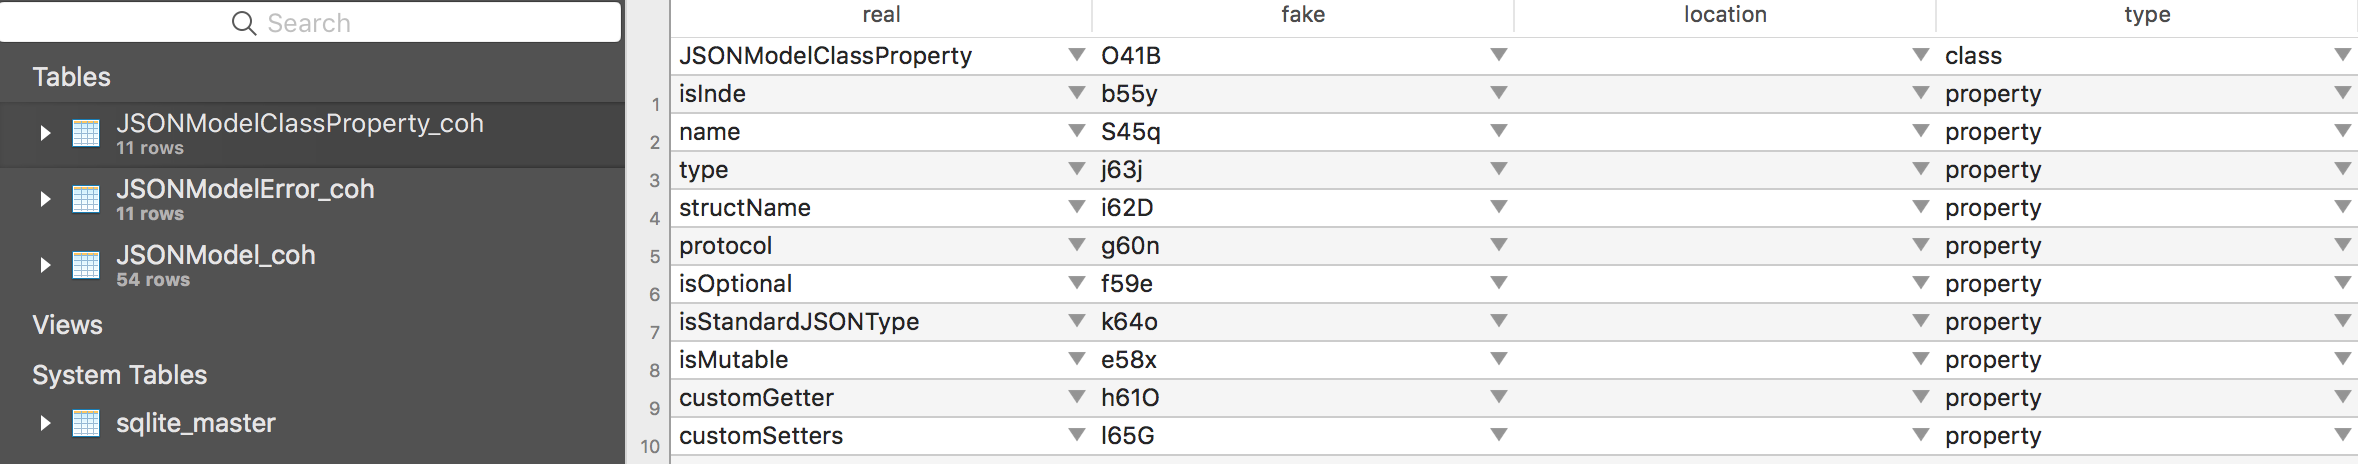
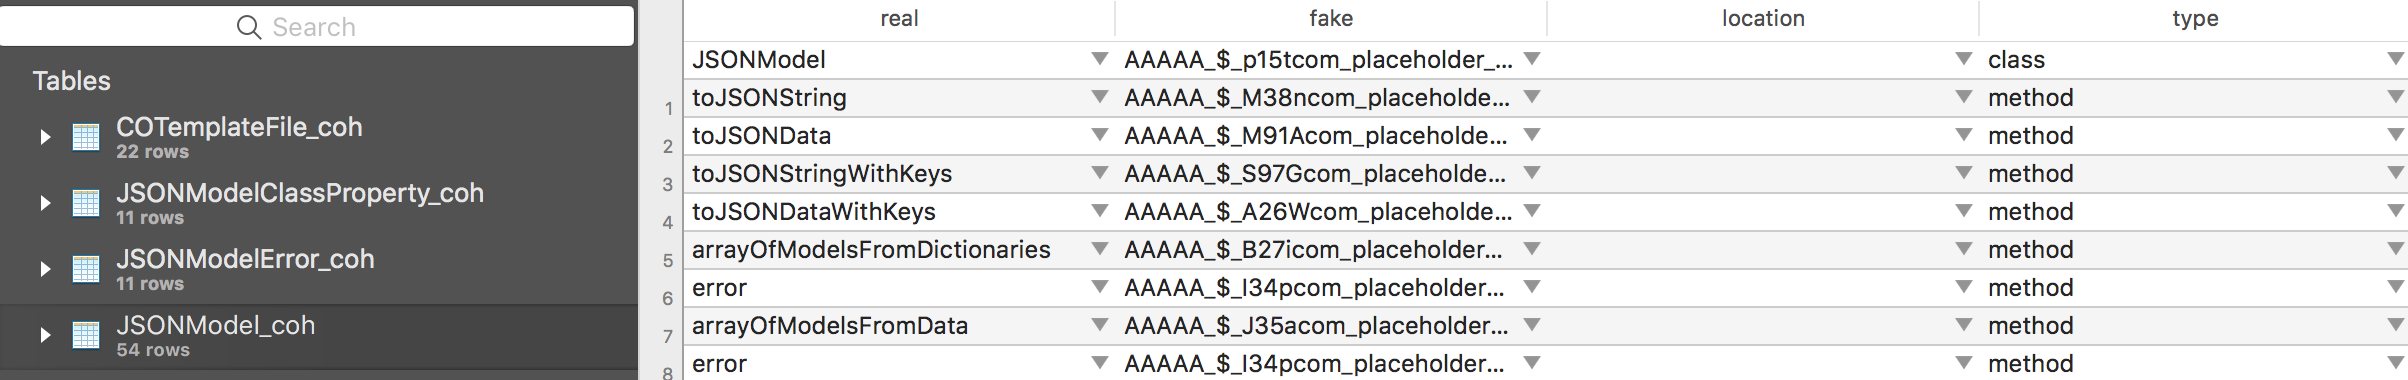
Update

diff --git a/obfuse-code/obfuse-code/Arguments.swift b/obfuse-code/obfuse-code/Arguments.swift
@@ -18,7 +18,6 @@ fileprivate struct __Arguments {
     let st = flag.Bool(name: "st", defValue: true, usage: "Strengthen the obfuscation. Default is true.")
     let version = flag.Bool(name: "version", defValue: false, usage: "Get the program supported iOS SDK version.")
     let query = flag.String(name: "q", defValue: "", usage: "Query the method whether exist or not.")
-    let showClass = flag.Bool(name: "class", defValue: false, usage: "Show the class name which method belogs to if you are in query command.")
 }
 
 public struct Arguments {
@@ -34,27 +33,32 @@ public struct Arguments {
 
     public var executedPath: String { return flag.executedPath }
 
-    public var identifier: String {
-        if let infoBundle = Bundle.init(path: infoPlistFilepath as String), let path = infoBundle.path(forResource: "info", ofType: "plist"), let dict = NSDictionary.init(contentsOfFile: path) {
-            if let id = dict[kCFBundleIdentifierKey as Any] as? String {
-                return id
-            }
-        }
-        return "com.placeholder.co"
-    }
-    public var appVersion: String {
-        if let infoBundle = Bundle.init(path: infoPlistFilepath as String), let path = infoBundle.path(forResource: "info", ofType: "plist"), let dict = NSDictionary.init(contentsOfFile: path) {
-            if let ver = dict[kCFBundleVersionKey as Any] as? String {
-                return ver
-            }
-        }
-        return "1.0.0"
-    }
+    public private(set) var identifier: String = ""
+
+    public private(set) var appVersion: String = ""
 
     public init() {
         if flag.parsed() == false {
             flag.parse()
         }
+        identifier = {
+            if let infoBundle = Bundle.init(path: __arguments.id.pointee as String), let path = infoBundle.path(forResource: "info", ofType: "plist"), let dict = NSDictionary.init(contentsOfFile: path) {
+                if let id = dict[kCFBundleIdentifierKey as Any] as? String {
+                    return id.replacingOccurrences(of: ".", with: "_").replacingOccurrences(of: "-", with: "_")
+                }
+            }
+            return "com_placeholder_co"
+        }()
+
+        appVersion = {
+            if let infoBundle = Bundle.init(path: __arguments.id.pointee as String), let path = infoBundle.path(forResource: "info", ofType: "plist"), let dict = NSDictionary.init(contentsOfFile: path) {
+                if let ver = dict[kCFBundleVersionKey as Any] as? String {
+                    return ver.replacingOccurrences(of: ".", with: "_").replacingOccurrences(of: "-", with: "_")
+                }
+            }
+            return "m_s_p"
+        }()
+
         if __arguments.version.pointee {
             Arguments.printVersion()
         }

diff --git a/obfuse-code/obfuse-code/ObfuscationManager.swift b/obfuse-code/obfuse-code/ObfuscationManager.swift
@@ -306,6 +306,6 @@ fileprivate extension ObfuscationManager {
             ObfuscationManager.index += 1
             fakeSource += 1
         }
-        return "\(fakeCharacters[26 + ObfuscationManager.index % 26])\(fakeSource)\(fakeCharacters[Int(arc4random() % 53)])"
+        return "AAAAA_$_\(fakeCharacters[ObfuscationManager.index % 53])\(fakeSource)\(fakeCharacters[Int(arc4random() % 53)])\(Arguments.arguments.identifier)\(Arguments.arguments.appVersion)"
     }
 }

diff --git a/README.md b/README.md
@@ -77,21 +77,60 @@ You could copy the program [CodeObfuscation-release](Products/iOS/CodeObfuscatio
   @end
   ```
 
+- Add macro **`CO_CONFUSION_PROTOCOL`** before a method head of declare or implementation. It tags the method is added to obfuscation task. e.g.
+
+  ```objective-c
+  @protocol CO_CONFUSION_PROTOCOL COProtocol <NSObject>
+
+  @property (nonatomic, strong) id CO_CONFUSION_PROPERTY aVar;
+
+  CO_CONFUSION_METHOD
+  - (BOOL)doSome:(NSString *)task withYou:(id)you another:(id)someWho;
+
+  @end
+  ```
+
+  Property and method are same to `CO_CONFUSION_PROPERTY` and ` CO_CONFUSION_METHOD`.
+
 # Features
 
-- Support command. 
+- Support commands. (You can alse obtain these from command: -h or -help)
 
-  | Subcommand or Options                | Description                              |
-  | ------------------------------------ | ---------------------------------------- |
-  | **-id \<path>**                      | The directory of info.plist. Default is current executed path. |
-  | **-offset \<unsigned integer>**      | The offset of obfuscation. Default is 0. |
-  | -release \| -debug                   | It controls the macro `!defined(DEBUG)`. If release, the macro will be used. Default is release, and I suggest that you'd better use release model. (<span style="background:red">deprecated</span>) |
-  | **-db \<path>**                      | The directory of obfuscation database. Default is current executed path. |
-  | **-root \<path>**                    | The directory of project file or what you want to start. Default is current executed path. |
-  | **-super [--strict=\<true\|false>]** | Check the user-class' names which have been entranced obfuscation whethere their super classes exist or not. If exists, will info a warning. For **strict** option, will check all of classes of iOS Kits. |
-  | **-st=\<true\|false>**               | Strengthen the obfuscation. Default is true. |
-  | **-help**                            | Get the command (maybe, escaping…)) helpful info. |
-  | **-version**                         | Get the program supported iOS SDK version. |
+  **-id** string
+
+      	The directory of info.plist. Default is current executed path. (default ".")
+
+  **-offset** int
+
+      	The offset of obfuscation. Default is 0.
+
+  **-db** string
+
+      	The directory of obfuscation database. Default is current executed path. (default ".")
+
+  **-root** string
+
+      	The directory of project file or what you want to start. Default is current executed path. (default ".")
+
+  **-super**
+
+      	Check the user-class' names which have been entranced obfuscation whether their super classes exist or not. If exists, will info a warning. For strict option, will check all of classes of iOS Kits.
+
+  **-strict**
+
+      	See -super.
+
+  **-st**
+
+      	Strengthen the obfuscation. Default is true. (default true)
+
+  **-version**
+
+      	Get the program supported iOS SDK version.
+
+  **-q** string
+
+      	Query the method whether exist or not.
 
 - Output `origin-name: obfuscation` map into database. Its structure like:
 
@@ -138,13 +177,8 @@ You could copy the program [CodeObfuscation-release](Products/iOS/CodeObfuscatio
 # Notice
 
 - `CO_CONFUSION_CLASS` and `CO_CONFUSION_CATEGORY` is a prerequisite for `CO_CONFUSION_PROPERTY` and `CO_CONFUSION_METHOD`.
-- **COULD NOT** use the code-obfuscation if your code contains runtime code. Unless you control it.
+- **COULD NOT** use the code-obfuscation if your code contains runtime code. Unless you can control it.
 
 # License
 
 The MIT License.
-
-# TODO:
-
-- Support @protocol.
-- Class and Method query command.
